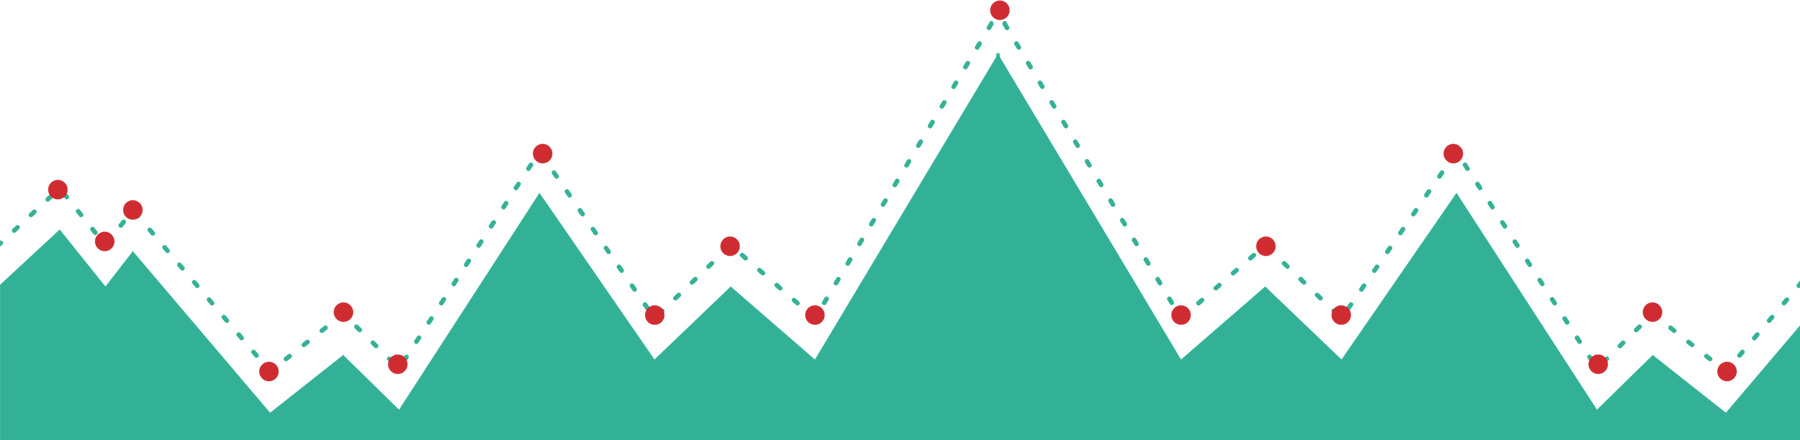
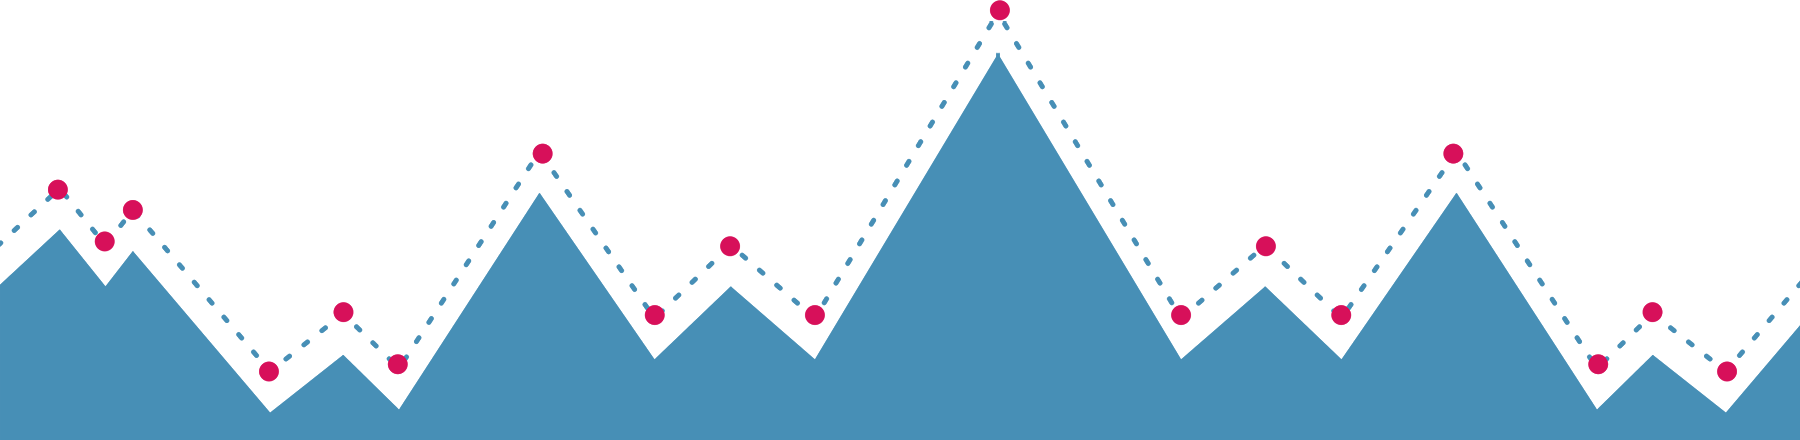
successes section done

diff --git a/app/assets/stylesheets/abouttheprojectstylesheet.scss b/app/assets/stylesheets/abouttheprojectstylesheet.scss
@@ -3,9 +3,6 @@
   margin: 0 auto;
 }
 
-* {
-  border: 1px solid pink;
-}
 
 .banner {
   height: 500px;
@@ -48,13 +45,13 @@
 
 
 
-.tech-used-image img {
+.tech-used-image img, .success-img {
   height: 500px;
 }
 
 .title-header {
   font-size: 4em;
-  color: white;
+  color: black;
   text-shadow: 1px 1px grey;
 }
 
@@ -62,6 +59,7 @@
   color: white;
   padding: 15px;
 }
+
 .color-block {
   height: 40%;
   background: #262c3a;
@@ -71,16 +69,16 @@
   color: white;
 }
 
-.tech .title-header{
+.success-img {
+  margin-bottom: 5%
+}
+
+.fa {
   color: black;
 }
 
-.fa-cogs {
-  color: black;
-}
 
-
-.tech, .about-content {
+.tech, .about-content, .success-section {
   padding: 5%;
 }
 
